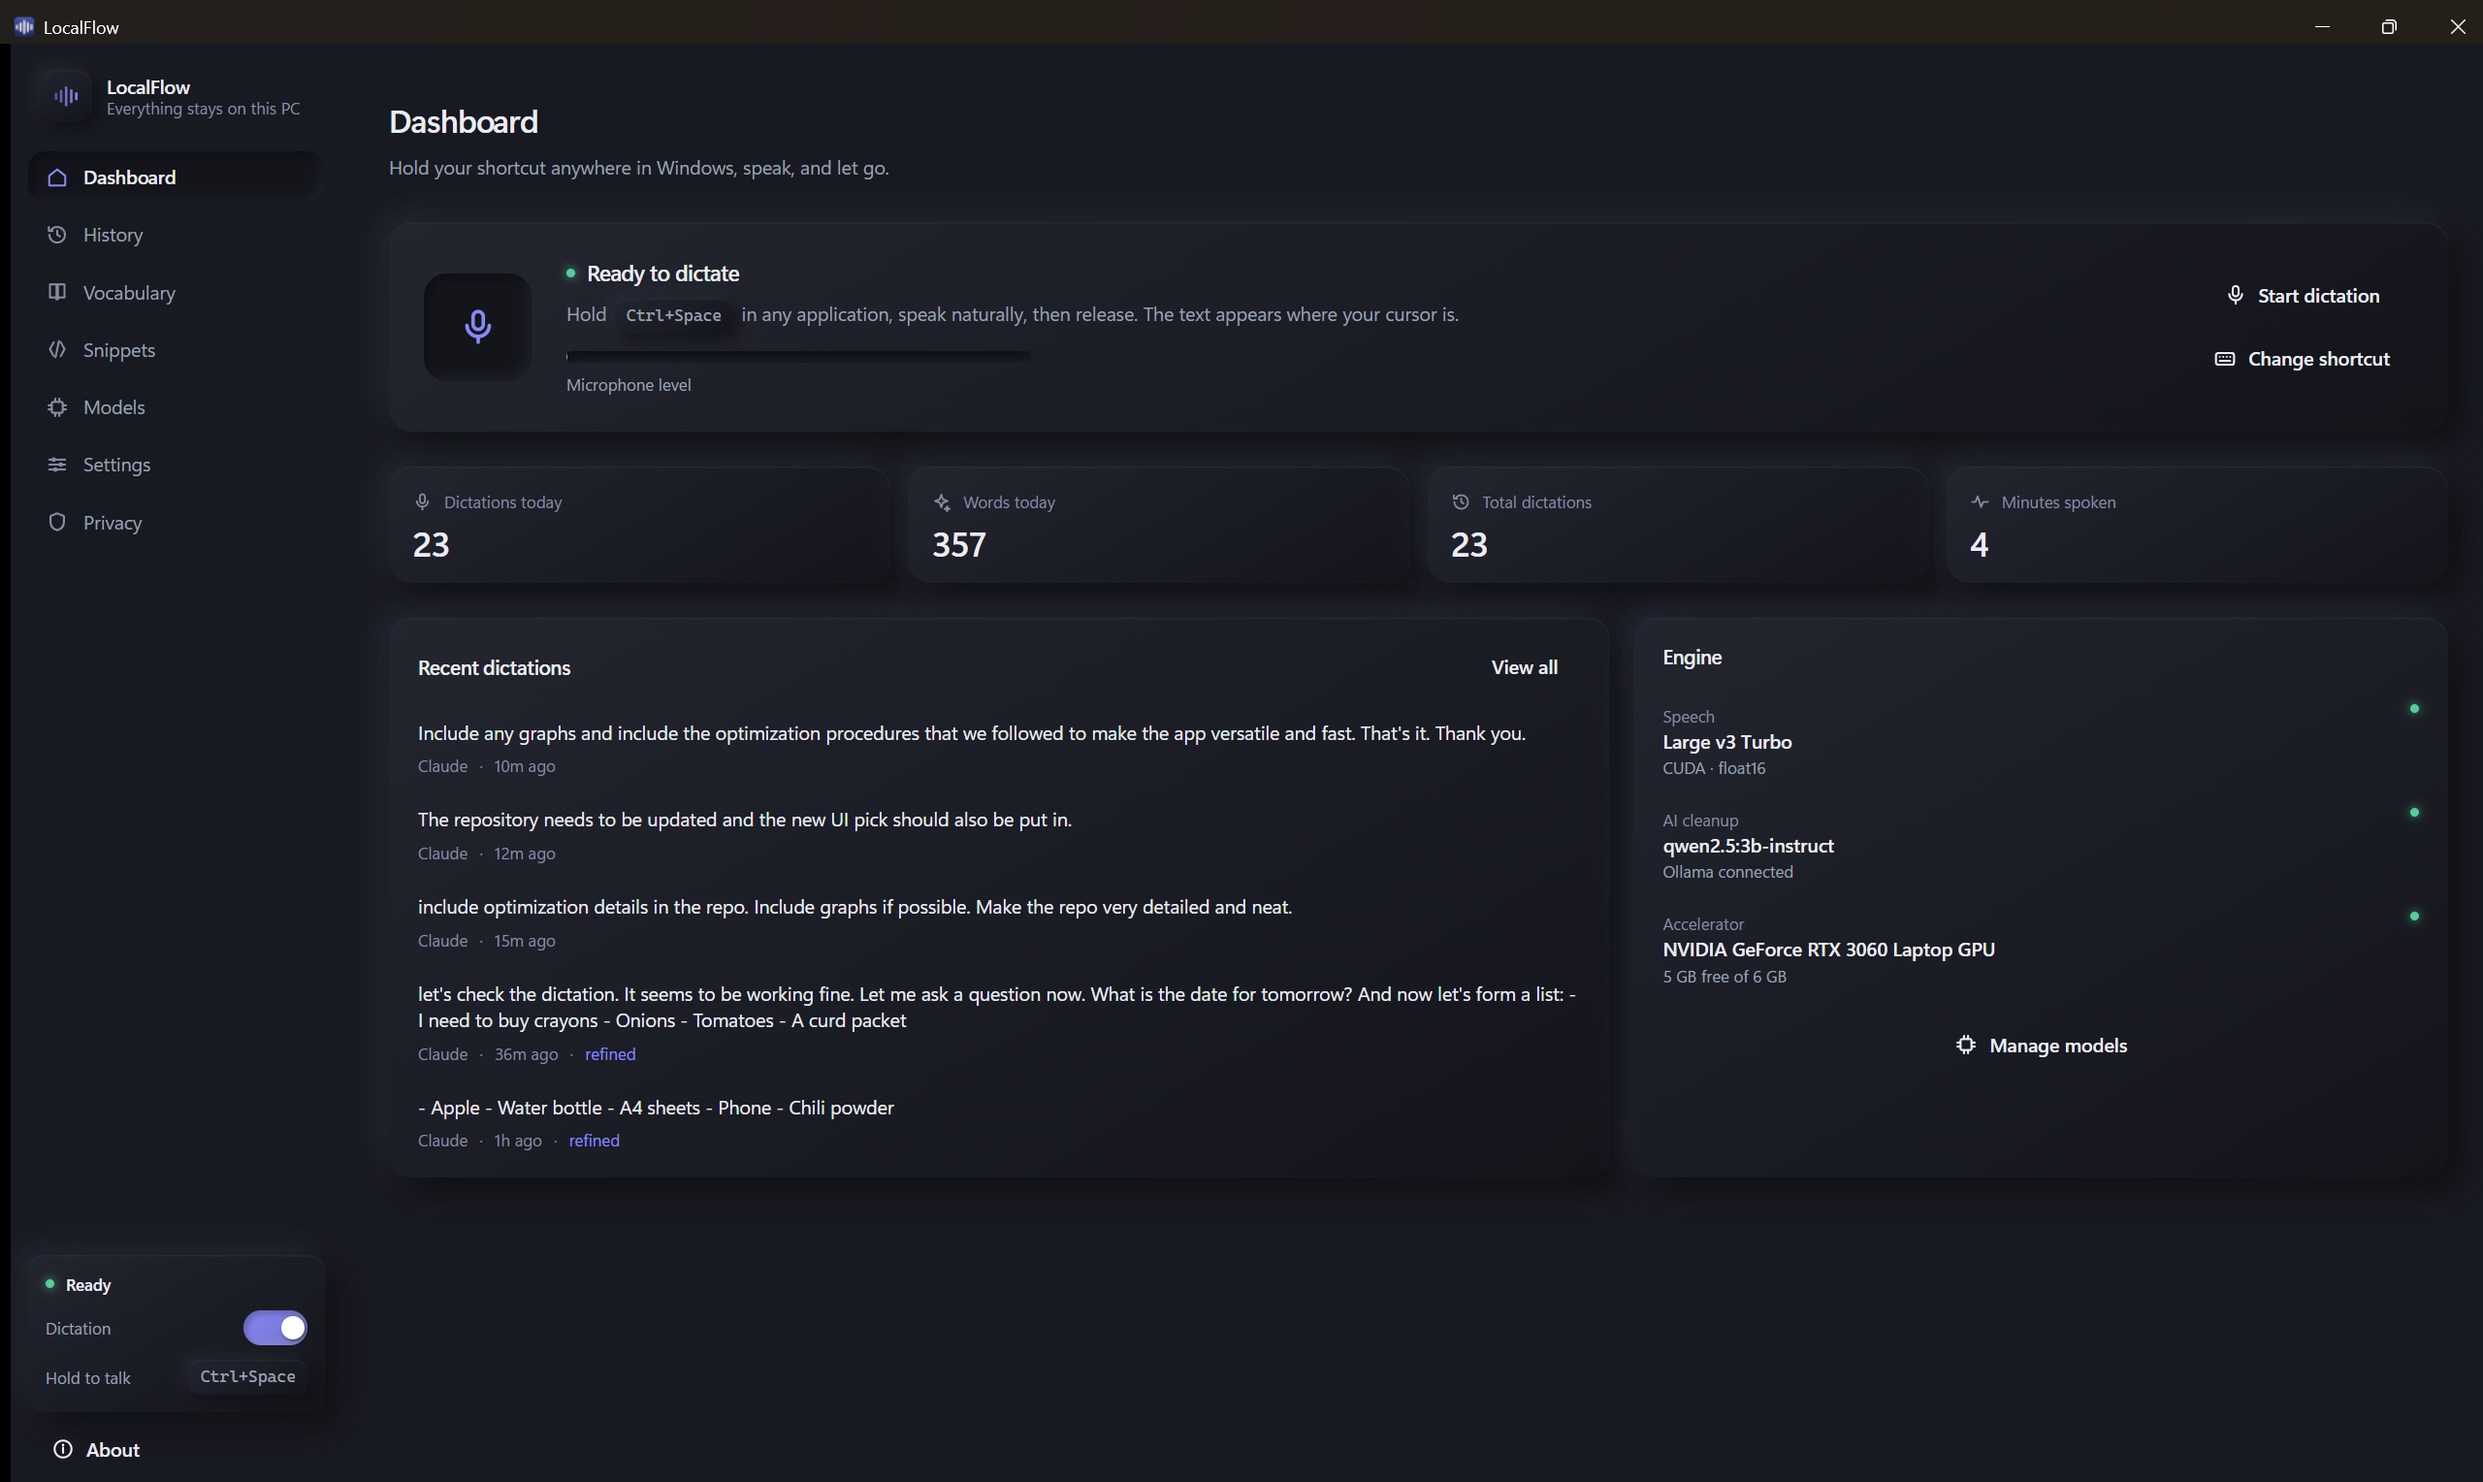
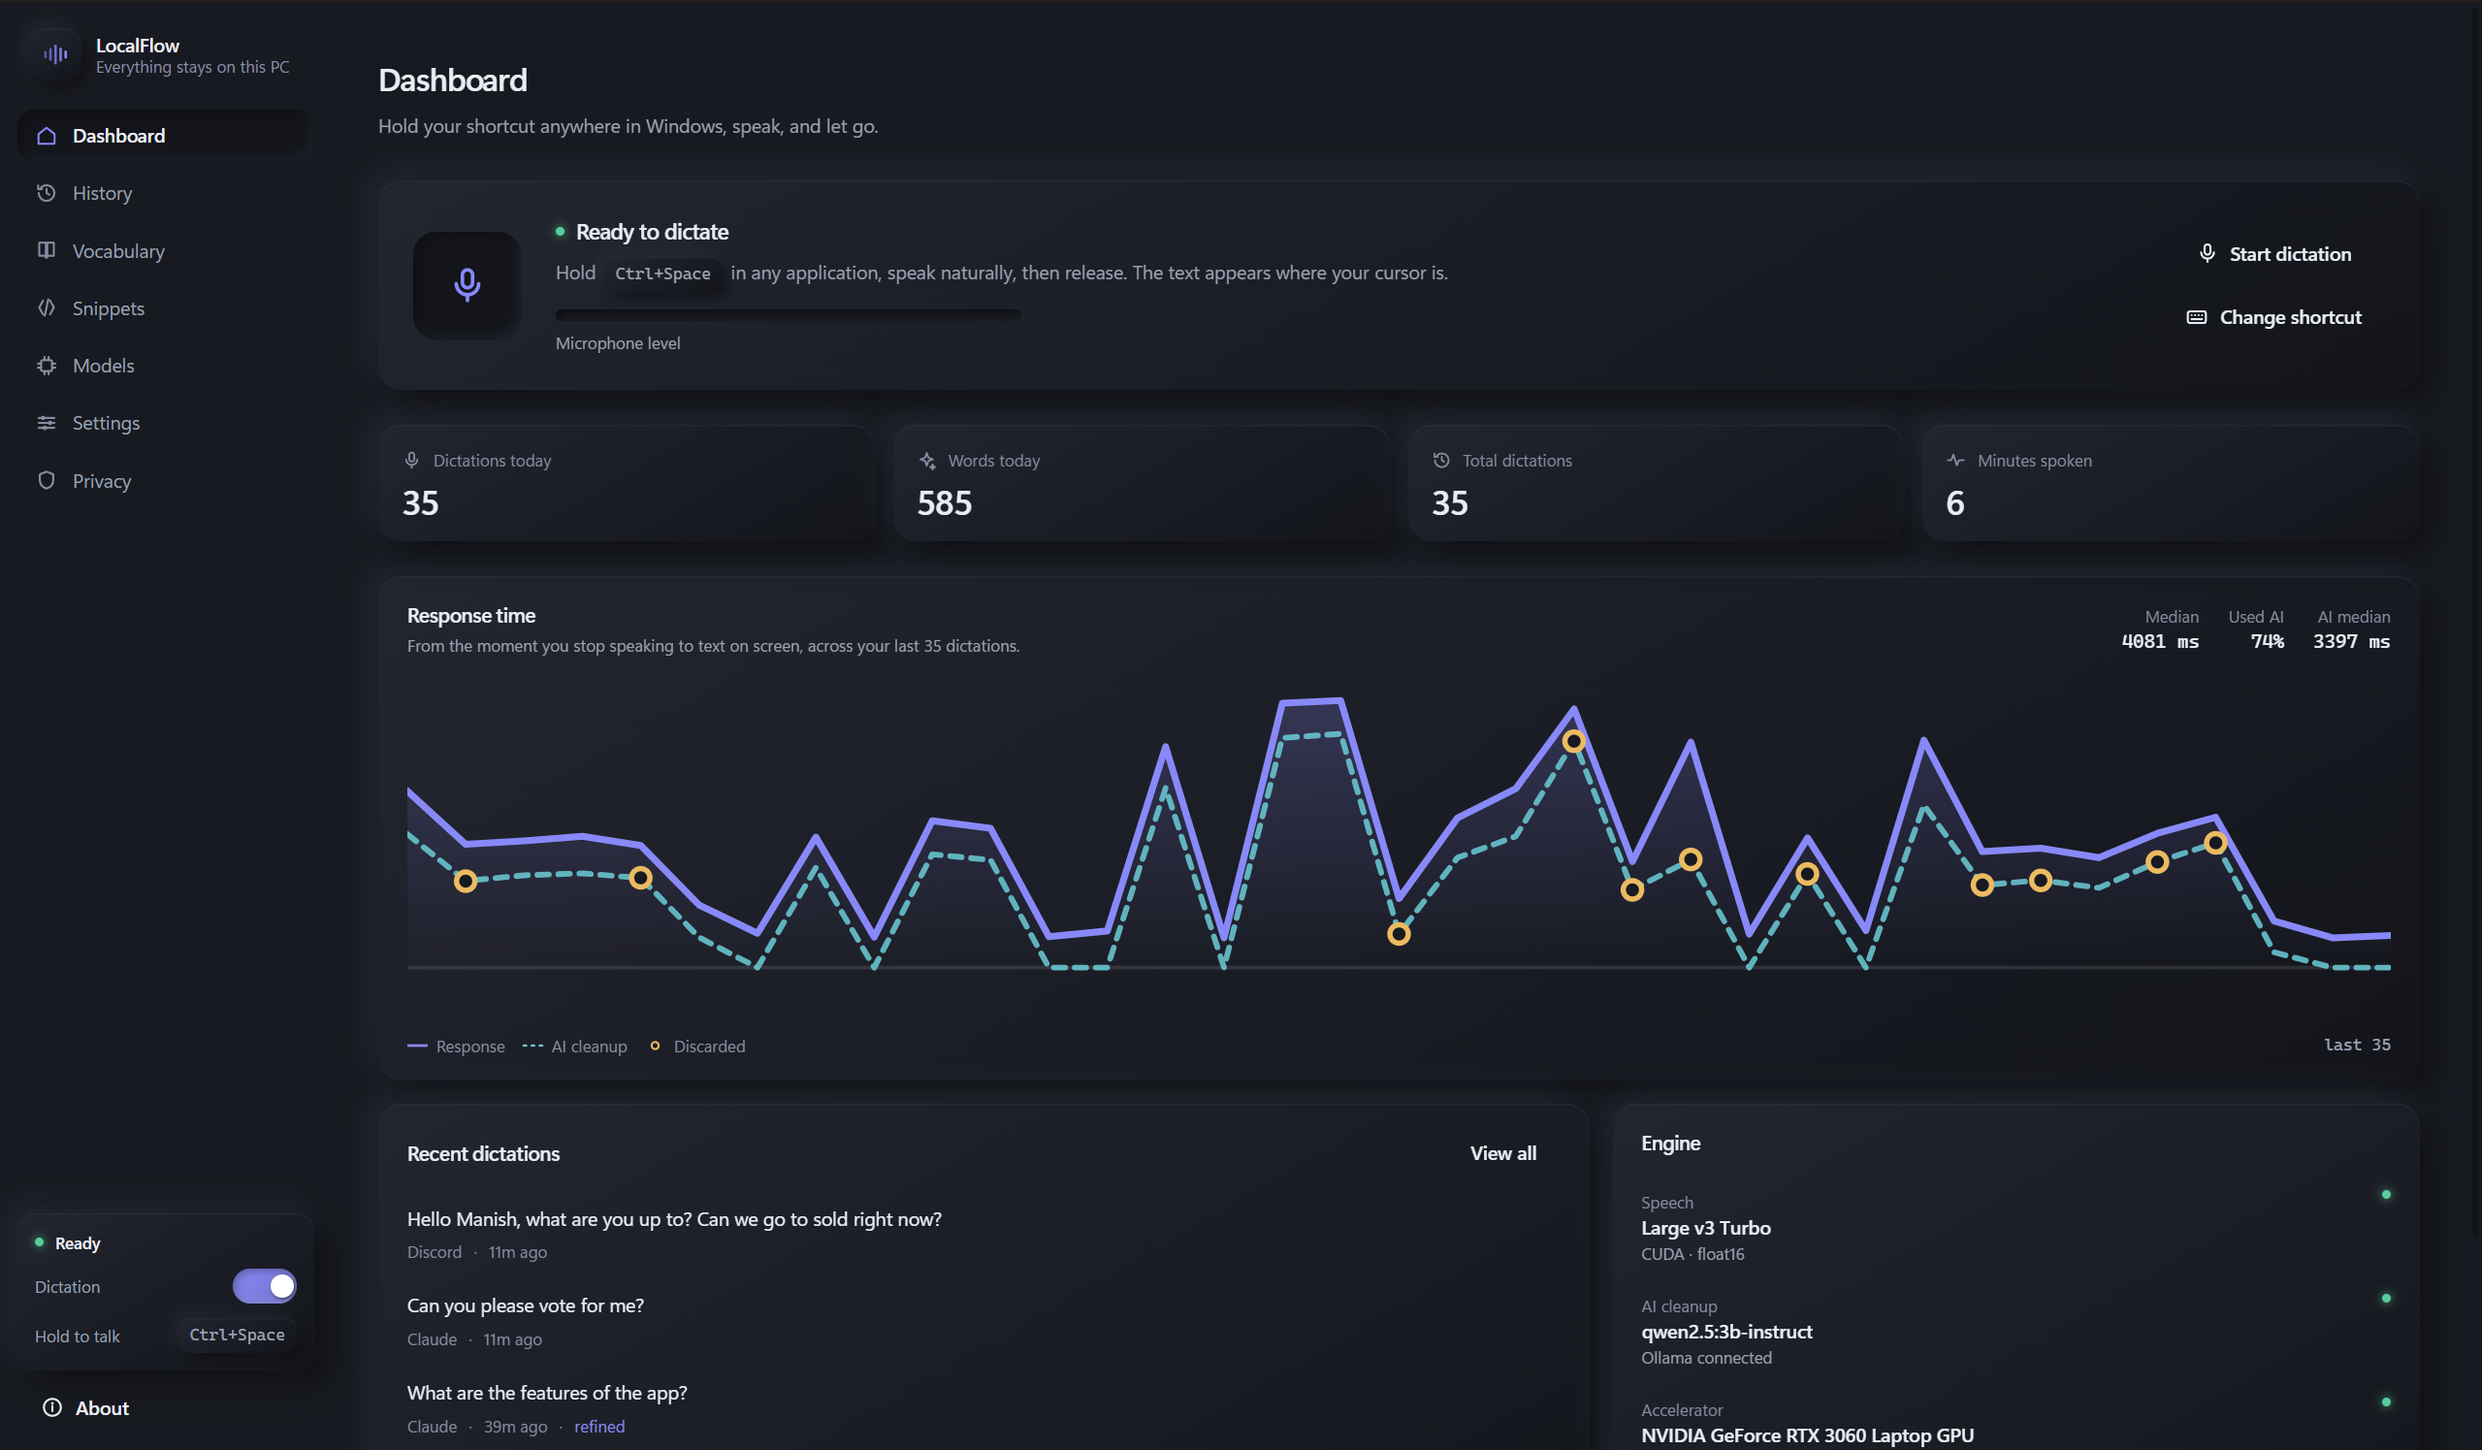
Update the dashboard and models screenshots, drop a stray from the repo
The dashboard shot now shows the response-time graph, and the models shot the
hardware bar above the model list, which is where the VRAM arithmetic behind
the recommendation is actually visible. The NVIDIA overlay bleeding into the
top of the models capture is cropped out.

INTERFACE.md gains a description of the graph, including what a ring means and
what a high AI share is telling you to go and change.

A loose screenshot in the project root was swept into the previous commit by
git add -A. It is removed, and the root now ignores stray images so that
documentation images have to be put in docs/images deliberately.

diff --git a/docs/INTERFACE.md b/docs/INTERFACE.md
@@ -26,6 +26,22 @@ the application it was inserted into, how long ago, and whether the local
 language model was involved. Entries marked `refined` went through the cleanup
 model; the rest were handled entirely by the deterministic pipeline.
 
+Between them sits `Response time`: the last forty dictations, drawn as two
+lines on one scale. The solid line is the time from the moment you stop speaking
+to text appearing. Recording is excluded, because that is how long you chose to
+talk rather than a cost the app imposes. The dashed line is the share of it
+spent in the local language model, so where that line sits on the floor the
+deterministic pipeline did the whole job on its own.
+
+A ring marks a dictation where the model ran and the validator then rejected its
+output. That time was spent and nothing came back for it, which no average would
+ever show you. Hovering any point gives the exact split for that dictation.
+
+Three figures sit above the graph: median response, the share of dictations that
+called the model, and the median time those calls took. If the second number is
+high and the rings are frequent, an application profile is asking for a rewriting
+style on text that does not need one; `Settings > AI` is where that is changed.
+
 The `Engine` panel on the right is a compact health check:
 
 - **Speech** is the Whisper model, the device it loaded on and the precision.
